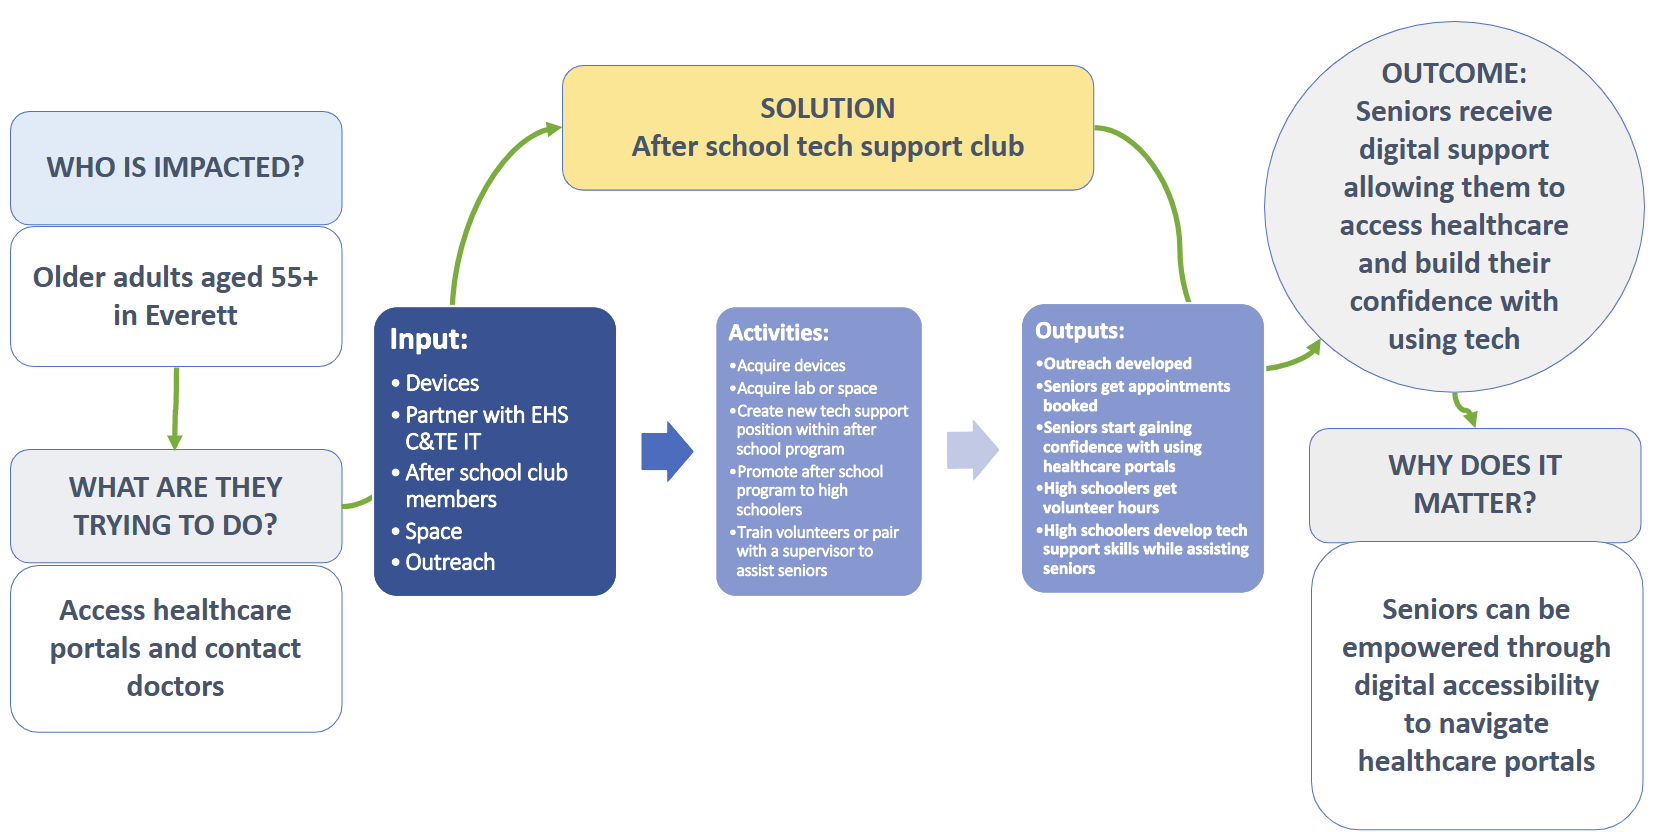
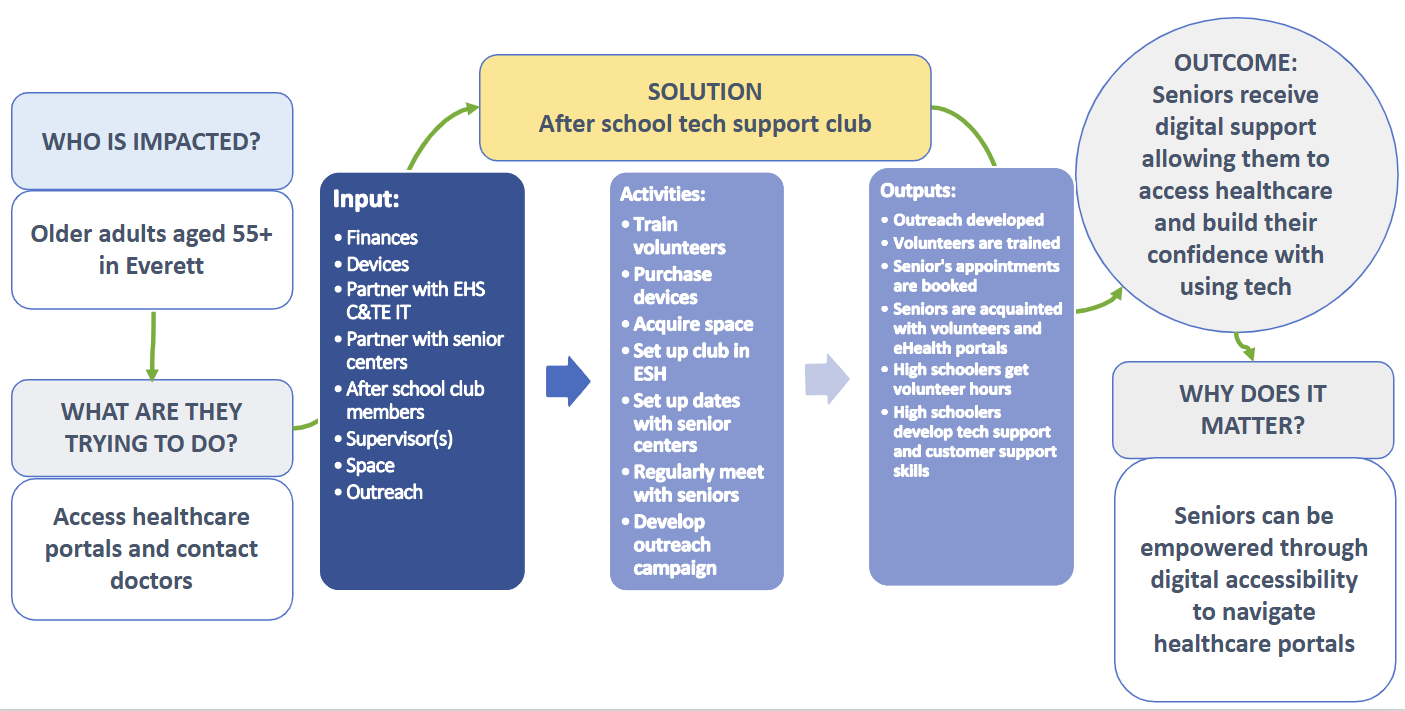
Solution page and style

diff --git a/solution.html b/solution.html
@@ -54,7 +54,7 @@
                 <article class="solution">
                     <h2>Our Solution</h2>
                     <p>
-                        Describe our solution
+                        Our solution creates an intergenerational after-school tech support club where high school students are trained to navigate healthcare portals and digital health tools, then provide ongoing, hands-on support to seniors in Everett. By pairing student volunteers with seniors, we build digital independence, improve access to care, and strengthen community connections.
                     </p>
                 </article>
                 <hr>
@@ -64,14 +64,39 @@
                     </h2>
                     <img src="imgs/Solution Logic Model.png" alt="Solution Logic Model">
                 </article>
-                <hr class="grey-hr">
                 <article class="Inputs">
                     <h3>
                         Inputs
                     </h3>
                     <p>
-                        Inputs
+                        The "inputs" are resources that we need to get our solution off the ground. They consist of:
                     </p>
+                    <ul>
+                        <li>
+                            A <strong>device</strong> for each of the volunteers
+                        </li>
+                        <li>
+                            <strong>Finances</strong> to pay for the devices
+                        </li>
+                        <li>
+                            <strong>Partnering with the Everett High School's Careers & Technical Education (C&TE)</strong>'s IT and STEM courses
+                        </li>
+                        <li>
+                            <strong>Partnering with senior centers</strong> and areas where senior events are held
+                        </li>
+                        <li>
+                            <strong>After school club members</strong> to act as volunteers
+                        </li>
+                        <li>
+                            A <strong>supervisor</strong> or DN to manage the club and teach the volunteers how to use the healthcare portals
+                        </li>
+                        <li>
+                            A <strong>space</strong> to hold meeting and teach the volunteers
+                        </li>
+                        <li>
+                            and an <strong>outreach</strong> program to make the right group of people aware of the program
+                        </li>
+                    </ul>
                 </article>
                 <hr class="grey-hr">
                 <article class="Activities">
@@ -79,8 +104,28 @@
                         Activities
                     </h3>
                     <p>
-                        Activities
+                        The "activities" are what we will be doing with the inputs to reach the desired outputs. The activities consist of:
                     </p>
+                    <ul>
+                        <li>
+                            <strong>Train volunteers</strong> how to use eHealth portals with devices
+                        </li>
+                        <li>
+                            <strong>Purchasing devices</strong> and <strong>locating space</strong>
+                        </li>
+                        <li>
+                            <strong>Setting up a club/program in EHS</strong> with members/volunteers
+                        </li>
+                        <li>
+                            <strong>Setting dates and times with senior centers</strong> to meet with seniors
+                        </li>
+                        <li>
+                            <strong>Regularly meet with seniors</strong> and assist them with eHealth portals
+                        </li>
+                        <li>
+                            <strong>Develop outreach campaign</strong> to get awareness for the program
+                        </li>
+                    </ul>
                 </article>
                 <hr class="grey-hr">
                 <article class="Outputs">
@@ -88,7 +133,39 @@
                         Outputs
                     </h3>
                     <p>
-                        Outputs
+                        The "outputs" are the immediate results of the activites. The outputs are:
+                    </p>
+                    <ul>
+                        <li>
+                            <strong>Outreach is developed</strong> and awareness is made
+                        </li>
+                        <li>
+                            <strong>Volunteers are trained</strong> on how to use eHealth portals and how to communicate with seniors
+                        </li>
+                        <li>
+                            Seniors get their <strong>appointments booked</strong>
+                        </li>
+                        <li>
+                            <strong>Seniors get acquainted</strong> with volunteers and eHealth portals
+                        </li>
+                        <li>
+                            <strong>High schoolers get volunteer hours</strong> they can use in college applications and experience for future jobs
+                        </li>
+                        <li>
+                            <strong>High schoolers develop tech support and customer support skills</strong> while assisting seniors
+                        </li>
+                    </ul>
+                </article>
+                <hr>
+                <article>
+                    <h2>
+                        Outcome
+                    </h2>
+                    <p>
+                        After all is said and done, <strong>seniors receive digital support</strong> &mdash; allowing them to access healthcare and build their confidence with using tech. A side effect of this is that high schoolers who volunteered gain <strong>volunteer hours and experience</strong> that they can use in college applications and future jobs. 
+                    </p>
+                    <p>
+                        This is our proposed solution for solving this problem.
                     </p>
                 </article>
             </section>

diff --git a/problem.html b/problem.html
@@ -55,7 +55,10 @@
                 <article class="statement">
                     <h2>Problem Statement</h2>
                     <p>
-                        As essential services increasingly move online, older adults aged 55+ in Everett with limited digital independence face digital equity barriers to accessing healthcare. The absence of accessible and ongoing digital support creates structural barriers that delay care, undermine financial security, and limit economic participation.
+                        As essential services increasingly move online, older adults aged 55+ in Everett with limited
+                        digital independence face digital equity barriers to accessing healthcare. The absence of
+                        accessible and ongoing digital support creates structural barriers that delay care, undermine
+                        financial security, and limit economic participation.
                     </p>
                 </article>
                 <hr>
@@ -65,11 +68,12 @@
                     </h2>
                     <img src="imgs/Problem Logic Model.png" alt="Problem Logic Model">
                 </article>
-                <hr class="grey-hr">
                 <article class="who">
                     <h3>Who does this affect?</h3>
                     <p>
-                        "Older adults" referrs to seniors and we defined "seniors" as anyone of age 55 or older. Since we work in Everett, we see a lot of older adults in this age group and we assist a lot of these people while doing our Digital Navigator work.
+                        "Older adults" referrs to seniors and we defined "seniors" as anyone of age 55 or older. Since
+                        we work in Everett, we see a lot of older adults in this age group and we assist a lot of these
+                        people while doing our Digital Navigator work.
                     </p>
                 </article>
                 <hr class="grey-hr">
@@ -88,6 +92,7 @@
                     <h3>What is getting in the way?</h3>
                     <p>
                         A couple things are getting in the way of this goal:
+                    </p>
                     <ul>
                         <li>
                             <p>Elderly people's avoidance to modern technologies,</p>
@@ -99,9 +104,11 @@
                             <p>the absence of accessible and ongoing digital support</p>
                         </li>
                     </ul>
-                    Technology is getting more and more powerful with every passing year. This causes older adults,
-                    especially those more set in their ways, to be wary and avoid technologies that can help them. A
-                    peer-reviewed paper mentions their findings on older adults and their opinions on modern technology.
+                    <p>
+                        Technology is getting more and more powerful with every passing year. This causes older adults,
+                        especially those more set in their ways, to be wary and avoid technologies that can help them. A
+                        peer-reviewed paper mentions their findings on older adults and their opinions on modern
+                        technology.
                     </p>
                     <p class="quote">
                         "To many [elderly adults], technology might cause anxiety due to a low level of comfort with and
@@ -110,7 +117,7 @@
                     </p>
                     <p>
                         Advancing technology is causing healthcare to advance their tech as well. A paper published on
-                        the <span>National Library of Medicine</span> says:
+                        the <strong>National Library of Medicine</strong> says:
                     </p>
                     <p class="quote">
                         "The development of telemedicine, the further enhancement of digital security and the
@@ -127,8 +134,7 @@
                     <h3>Why does this matter?</h3>
                     <p>
                         People, not just elderly people, are proven to be healthier when they know how to use e-health
-                        resources and other essential technologies. A paper published on the <span>Journal of Medical
-                            Internet Research (JMIR) Publications</span> shared their findings after doing a survery on
+                        resources and other essential technologies. A paper published on the <strong>Journal of Medical Internet Research (JMIR) Publications</strong> shared their findings after doing a survery on
                         elderly people and their health and knowledge on e-health services. They found that:
                     </p>
                     <p class="quote">
@@ -137,7 +143,7 @@
                         compared to 89.5% of patients with excellent self-rated health."
                     </p>
                     <p>
-                        This shows our aformentioned point. People are approximately <span>65% healthier</span> when
+                        This shows our aformentioned point. People are approximately <strong>65% healthier</strong> when
                         they know how to send a message to their doctor using e-health services.
                     </p>
                 </article>

diff --git a/index.html b/index.html
@@ -104,7 +104,7 @@
                         Our Solution
                     </h2>
                     <p>
-                        Our solution creates an intergenerational after-school tech support club where high school students are trained to navigate healthcare portals and digital health tools, then provide ongoing, hands-on support to seniors in Everett. By pairing student digital navigators with seniors, we build digital independence, improve access to care, and strengthen community connections.
+                        Our solution creates an intergenerational after-school tech support club where high school students are trained to navigate healthcare portals and digital health tools, then provide ongoing, hands-on support to seniors in Everett. By pairing student volunteers with seniors, we build digital independence, improve access to care, and strengthen community connections.
                     </p>
                 </article>
                 <hr>

diff --git a/styles/problem.css b/styles/problem.css
@@ -3,10 +3,23 @@
     width: 20%;
 }
 
+.content article h2 {
+    text-decoration: underline 2px;
+}
+
+.content article h3 {
+    text-decoration: underline 2px;
+}
 
 .quote {
     margin: 50px 200px;
+    padding: 15px 25px;
     font-style: italic;
+    background-color: rgb(255, 217, 0);
+    border-radius: 10px;
+    border: solid black 2px;
+    letter-spacing: 0.5px;
+    line-height: 1.25;
 }
 
 .problem-lm img {
@@ -16,4 +29,5 @@
     width: 900px;
     height: auto;
     border: solid black 3px;
+    box-shadow: 0px 0px 15px grey;
 }

diff --git a/styles/solution.css b/styles/solution.css
@@ -10,4 +10,9 @@
     width: 900px;
     height: auto;
     border: solid black 3px;
+    box-shadow: 0 0 15px grey;
+}
+
+.content article h3, .content article h2 {
+    text-decoration: underline 2px;
 }
